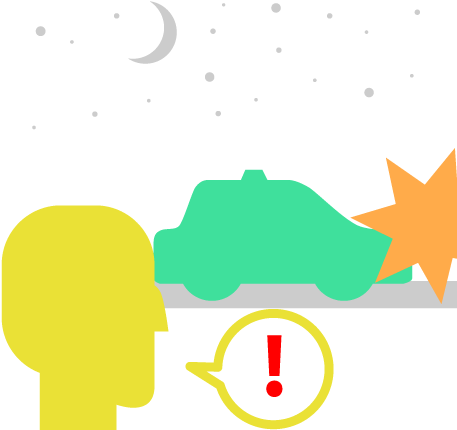
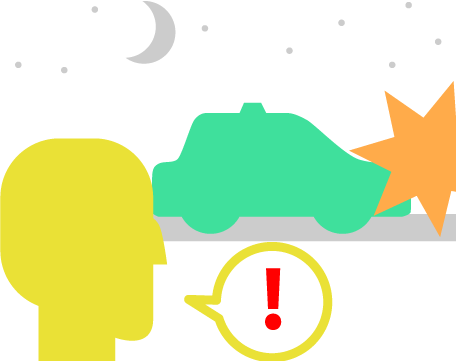
* slide1 illustration smaller and aligned to top * "welcome to" in intro is a bit larger

diff --git a/css/style.css b/css/style.css
@@ -1,1 +1,1 @@
-*{margin:0;padding:0;box-sizing:border-box}button{border:none;font-family:inherit}button:focus{outline:none}ul{list-style:none}body{font-family:'Istok Web', sans-serif}a{text-decoration:none}body{background:#cccccc;display:flex;height:100vh;justify-content:center;flex-direction:column;color:#113A27;transition:background-color .4s;min-height:600px;min-width:960px}body.credits{background:#113A27}body.credits main{background:transparent}.main-wrapper{display:flex;justify-content:center;flex:1}main{width:960px;height:540px;background:white;align-self:center;position:relative;transition:background-color .4s}footer{bottom:0;left:0;right:0;margin-top:auto;height:60px;background:#113A27;position:relative}footer nav{display:flex;width:560px;height:100%;justify-content:space-between;align-items:center;margin:0 auto}footer nav button{min-width:64px;height:36px;font-weight:bold;line-height:26px;background:#4AFFAD;border-radius:2px}footer nav button:hover{background:#E6FFF3}footer nav button.current{background:#E6FFF3}footer .share-buttons{position:absolute;right:12px;display:flex;bottom:0;top:0;align-items:center;justify-content:space-between;width:120px}footer .share-buttons>a{color:#4AFFAD;transition:.15s color}footer .share-buttons>a:hover{color:#E6FFF3}footer .share-buttons>a>svg{fill:currentColor;width:36px;height:36px}h1{font-size:28px;font-weight:normal;margin-bottom:14px}p{font-size:18px;margin-bottom:10px}button{color:inherit;font-size:24px;padding:5px 10px;transition:.15s}button:hover:not(:active){filter:drop-shadow(0px 3px 0px rgba(0,0,0,0.8));transform:translateY(-3px)}button.collapsed{display:none}button.wide{min-width:280px}button.cta{background:#E6FFF3;border:solid 4px #3FE09C;border-radius:6px}button.basic{background:#4AFFAD;border-radius:6px}button.basic.disabled{background:#cccccc;pointer-events:none}span.bold{font-weight:bold}span.cta{background:#E6FFF3;padding:3px}.slide{position:absolute;transition:.4s;padding:20px;display:flex;flex-direction:column;width:100%;height:100%}.slide:not(.active){opacity:0;pointer-events:none;transform:translateY(-10px)}.slide.collapsed{display:none !important}.slide#intro{align-items:center;text-align:center}.slide#intro>h1{font-size:48px;margin-bottom:24px}.slide#intro .play-time{opacity:0.5}.slide#intro>button{margin-top:auto}.slide#slide1 .top-part{display:flex;height:100%;min-height:0;padding-bottom:20px}.slide#slide1 .top-part .text-container{width:463px;position:relative;margin-right:10px}.slide#slide1 .top-part .text-container section{position:absolute;transition:.4s}.slide#slide1 .top-part .text-container section.collapsed{opacity:0;pointer-events:none}.slide#slide1 .top-part .illustration{flex-grow:1;margin-right:-20px;margin-left:10px;align-self:center}.slide#slide1 .bottom-part{margin-top:auto;display:flex;min-height:50px;align-items:center}.slide#slide1 .bottom-part button.cta{margin:0 auto}.slide#slide1 #percent-buttons{display:flex;justify-content:space-between;width:100%}.slide#slide1 #percent-buttons.collapsed{display:none}.slide#slide1 #percent-buttons button{border-radius:6px;width:76px}.slide#slide1 #percent-buttons button#percent0{background:#83FB4C}.slide#slide1 #percent-buttons button#percent10{background:#7DF45D}.slide#slide1 #percent-buttons button#percent20{background:#77EE6E}.slide#slide1 #percent-buttons button#percent30{background:#70E780}.slide#slide1 #percent-buttons button#percent40{background:#6AE18F}.slide#slide1 #percent-buttons button#percent50{background:#64DBA0}.slide#slide1 #percent-buttons button#percent60{background:#5DD5B1}.slide#slide1 #percent-buttons button#percent70{background:#57CEC3}.slide#slide1 #percent-buttons button#percent80{background:#50C8D4}.slide#slide1 #percent-buttons button#percent90{background:#4AC2E5}.slide#slide1 #percent-buttons button#percent100{background:#43BBF6}.slide#slide2{align-items:center}.slide#slide2 .centered-text{text-align:center;width:82%;margin-bottom:10px}.slide#slide2 .bottom-part{margin-top:auto;display:flex;flex-direction:column;align-items:center;transition:.4s}.slide#slide2 .bottom-part.collapsed{transform:translateY(-10px);opacity:0;pointer-events:none}.slide#slide2 .bottom-part button.cta{margin:0 auto}.slide#slide3 .cabs-slider{margin-bottom:10px}.slide#slide3 .main-explanation{flex-grow:1;padding-top:10px;display:flex;border-top:2px solid #cccccc}.slide#slide3 .main-explanation .explanation-text{flex-grow:1;width:100%;margin-right:10px}.slide#slide3 .main-explanation .explanation-text>section{display:flex;flex-direction:column;position:absolute;width:450px;height:396px;transition:.4s}.slide#slide3 .main-explanation .explanation-text>section .top-part{flex-grow:1}.slide#slide3 .main-explanation .explanation-text>section .bottom-part{display:flex;flex-direction:column;align-items:center}.slide#slide3 .main-explanation .explanation-text>section .bottom-part p{text-align:center}.slide#slide3 .main-explanation .explanation-text>section .bottom-part section{display:flex;flex-direction:column;align-items:center}.slide#slide3 .main-explanation .explanation-text>section.collapsed{opacity:0;pointer-events:none}.slide#slide3 .main-explanation .explanation-text>section section.collapsed{display:none}.slide#slide3 .main-explanation .explanation-graphic{flex-grow:1;width:100%;margin-left:10px}.slide#slide4 .top-controllers{display:flex;margin-bottom:10px}.slide#slide4 .top-controllers>section{flex-grow:1;margin:0 10px}.slide#slide4 .top-controllers>section:first-child{margin-left:0}.slide#slide4 .top-controllers>section:last-child{margin-right:0}.slide#slide4 .top-controllers .separator{display:flex}.slide#slide4 .top-controllers .separator::before{content:"";border:2px solid lightgrey;border-radius:5px}.slide#slide4 .main-explanation{display:flex;flex-direction:column;align-items:stretch;flex:1}.slide#slide4 .centered-text{text-align:center;width:86%}.slide#slide4 .top-part{display:flex;flex-direction:column;align-items:center;flex-grow:1;margin-top:30px}.slide#slide4 .bottom-part{display:flex;flex-direction:column;align-items:center}.slide#slide4 img{margin:10px 0}.slide#slide5 .top-controllers{display:flex;margin-bottom:10px}.slide#slide5 .top-controllers>section{flex-grow:1;margin:0 10px}.slide#slide5 .top-controllers>section:first-child{margin-left:0}.slide#slide5 .top-controllers>section:last-child{margin-right:0}.slide#slide5 .top-controllers .separator{display:flex}.slide#slide5 .top-controllers .separator::before{content:"";border:2px solid lightgrey;border-radius:5px}.slide#slide5 .main-explanation{flex-grow:1;padding-top:10px;display:flex;border-top:2px solid #cccccc}.slide#slide5 .main-explanation .explanation-text{flex-grow:1;margin-right:10px}.slide#slide5 .main-explanation .explanation-text>section{display:flex;flex-direction:column;position:absolute;width:520px;height:436px;transition:.4s}.slide#slide5 .main-explanation .explanation-text>section.collapsed{opacity:0;pointer-events:none}.slide#slide5 .main-explanation .explanation-graphic{margin-left:10px;display:flex;flex-direction:column;align-items:center;justify-content:center}.slide#slide5 .main-explanation .top-part{display:flex;flex-direction:column;align-items:center;flex-grow:1}.slide#slide5 .main-explanation .top-part p{width:100%}.slide#slide5 .main-explanation .bottom-part{display:flex;flex-direction:column;align-items:center}.slide#slide5 .main-explanation .centered-text{text-align:center}.slide#slide5 .wintnessed-cabs-example{display:flex;align-items:center}.slide#slide5 .wintnessed-cabs-example>svg{width:72.887px;height:81.829px;transform:scale(0.8);margin:0 10px}.slide#slide5 .wintnessed-cabs-example>svg:first-child{margin-left:0}.slide#slide5 .wintnessed-cabs-example>svg:last-child{margin-right:0}.slide#slide5 .witness-cabs{background-image:url("../images/witnessCabsBase.png");width:380px;height:380px}.slide#slide5 .witness-cabs ul.witnessed-cabs{position:relative}.slide#slide5 .witness-cabs ul.witnessed-cabs>li{position:absolute;width:0;height:0}.slide#slide5 .witness-cabs ul.witnessed-cabs>li>svg{position:absolute;transform:translate(-50%, -50%);width:72.887px;height:81.829px;transition:opacity 0.2s}.slide#slide5 .witness-cabs ul.witnessed-cabs>li.blue_seenblue>svg.blue_seenblue{z-index:2;opacity:1}.slide#slide5 .witness-cabs ul.witnessed-cabs>li.blue_seenblue>svg:not(.blue_seenblue){opacity:0}.slide#slide5 .witness-cabs ul.witnessed-cabs>li.blue_seengreen>svg.blue_seengreen{z-index:2;opacity:1}.slide#slide5 .witness-cabs ul.witnessed-cabs>li.blue_seengreen>svg:not(.blue_seengreen){opacity:0}.slide#slide5 .witness-cabs ul.witnessed-cabs>li.green_seengreen>svg.green_seengreen{z-index:2;opacity:1}.slide#slide5 .witness-cabs ul.witnessed-cabs>li.green_seengreen>svg:not(.green_seengreen){opacity:0}.slide#slide5 .witness-cabs ul.witnessed-cabs>li.green_seenblue>svg.green_seenblue{z-index:2;opacity:1}.slide#slide5 .witness-cabs ul.witnessed-cabs>li.green_seenblue>svg:not(.green_seenblue){opacity:0}.slide#slide6 .top-controllers{display:flex;margin-bottom:10px}.slide#slide6 .top-controllers>section{flex-grow:1;margin:0 10px}.slide#slide6 .top-controllers>section:first-child{margin-left:0}.slide#slide6 .top-controllers>section:last-child{margin-right:0}.slide#slide6 .top-controllers .separator{display:flex}.slide#slide6 .top-controllers .separator::before{content:"";border:2px solid lightgrey;border-radius:5px}.slide#slide6 .main-explanation{flex-grow:1;padding-top:10px;display:flex;border-top:2px solid #cccccc}.slide#slide6 .main-explanation .explanation-text{flex-grow:1;width:100%;margin-right:10px;display:flex;flex-direction:column}.slide#slide6 .main-explanation .explanation-text>section{display:flex;flex-direction:column;position:absolute;width:450px;height:396px;transition:.4s}.slide#slide6 .main-explanation .explanation-text>section .top-part{flex-grow:1}.slide#slide6 .main-explanation .explanation-text>section .bottom-part{display:flex;flex-direction:column;align-items:center}.slide#slide6 .main-explanation .explanation-text>section .bottom-part p{text-align:center}.slide#slide6 .main-explanation .explanation-text>section .bottom-part section{display:flex;flex-direction:column;align-items:center}.slide#slide6 .main-explanation .explanation-text>section.collapsed{opacity:0;pointer-events:none}.slide#slide6 .main-explanation .explanation-text>section section.collapsed{display:none}.slide#slide6 .main-explanation .explanation-text .top-part{flex-grow:1}.slide#slide6 .main-explanation .explanation-text .bottom-part{display:flex;flex-direction:column;align-items:center}.slide#slide6 .main-explanation .explanation-graphic{flex-grow:1;width:100%;margin-left:10px}.slide#credits{color:white;align-items:center;text-align:center}.slide#credits>header{position:relative}.slide#credits>header .created-by{font-size:26px;margin-bottom:0}.slide#credits>header>h1{font-size:48px;color:#4AFFAD}.slide#credits>header .for-eej{font-size:20px}.slide#credits>header .not-blue{position:absolute;top:80px;right:-20px;opacity:1;font-size:12px}.slide#credits .bottom-part{text-align:left;margin-top:auto;background:rgba(255,255,255,0.05);padding:20px}.slide#credits p{margin-bottom:15px}.slide#credits p:last-child{margin-bottom:0}.slide#credits a{color:#4AFFAD;text-decoration:underline;transition:.15s color}.slide#credits a:hover{color:#E6FFF3}.side-by-side-buttons{display:flex;justify-content:space-between}.report-box{background:#cccccc;padding:10px;margin-bottom:20px}.report-box header{text-decoration:underline}.cabs-slider{width:100%;position:relative;height:84px;display:flex;flex-direction:column}.cabs-slider .cabs-slider-slider{position:absolute;padding:2.5%;margin:-2.5%}.cabs-slider .cabs-slider-slider>svg{width:22.584px;height:83.922px;transform-origin:top center;fill:#3FE09C;transition:fill .15s}.cabs-slider .cabs-slider-slider>svg>use{pointer-events:none}@keyframes ftue-hop{60%{transform:scaleY(1) translateY(0);animation-timing-function:ease-in-out}70%{transform:scaleY(0.8);animation-timing-function:ease-out}80%{transform:scaleY(1.1) translateY(-20px);animation-timing-function:ease-in}90%{transform:scaleY(0.85) translateY(0);animation-timing-function:ease-out}100%{transform:scaleY(1) translateY(0);animation-timing-function:ease-in-out}}.cabs-slider .cabs-slider-slider.ftue-hop>svg{animation:ftue-hop 6s 6s infinite;transform-origin:bottom center}.cabs-slider .cabs-slider-slider:hover>svg{fill:#91edc7}.cabs-slider .cabs-slider-slider.disabled{pointer-events:none}.cabs-slider .cabs-slider-slider.disabled>svg{fill:#cccccc}.cabs-slider ul.cabs-slider-cabs{display:flex;justify-content:space-evenly;margin-top:auto;margin-bottom:10px}.cabs-slider ul.cabs-slider-cabs>li{width:72.887px;height:36.896px}.cabs-slider ul.cabs-slider-cabs>li>svg{width:72.887px;height:36.896px;transition:fill .4s;fill:#83FB4C}.cabs-slider ul.cabs-slider-cabs>li>svg.blue{fill:#43BBF6}.cabs-slider.half-size{height:42px}.cabs-slider.half-size .cabs-slider-slider>svg{width:11.292px;height:41.961px}.cabs-slider.half-size ul.cabs-slider-cabs{margin-bottom:5px}.cabs-slider.half-size ul.cabs-slider-cabs>li{width:36.4435px;height:18.448px}.cabs-slider.half-size ul.cabs-slider-cabs>li>svg{width:36.4435px;height:18.448px}.witness-slider{width:100%;position:relative;height:84px;display:flex;flex-direction:column}.witness-slider .witness-slider-slider{position:absolute;padding:2.5%;margin:-2.5%}.witness-slider .witness-slider-slider>svg{width:22.584px;height:83.922px;transform-origin:top center;fill:#3FE09C;transition:fill .15s}.witness-slider .witness-slider-slider>svg>use{pointer-events:none}.witness-slider .witness-slider-slider:hover>svg{fill:#91edc7}.witness-slider .witness-slider-slider.disabled{pointer-events:none}.witness-slider .witness-slider-slider.disabled>svg{fill:#cccccc}.witness-slider ul.witness-slider-heads{display:flex;justify-content:space-evenly;margin-top:auto;margin-bottom:10px}.witness-slider ul.witness-slider-heads>li{width:40.635px;height:60.075px;position:relative}.witness-slider ul.witness-slider-heads>li>svg{position:absolute;width:40.635px;height:60.075px;transition:opacity .4s}.witness-slider ul.witness-slider-heads>li.right>svg.right{opacity:1}.witness-slider ul.witness-slider-heads>li.right>svg:not(.right){opacity:0}.witness-slider ul.witness-slider-heads>li:not(.right)>svg.right{opacity:0}.witness-slider ul.witness-slider-heads>li:not(.right)>svg:not(.right){opacity:1}.witness-slider.half-size{height:42px}.witness-slider.half-size .witness-slider-slider>svg{width:11.292px;height:41.961px}.witness-slider.half-size ul.witness-slider-heads{margin-bottom:1px}.witness-slider.half-size ul.witness-slider-heads>li{width:20.3175px;height:30.0375px}.witness-slider.half-size ul.witness-slider-heads>li>svg{width:20.3175px;height:30.0375px}.explanation-graphic .taxidentville-graphics-container{position:relative}.explanation-graphic .taxidentville-graphics-container svg{position:absolute}.explanation-graphic .taxidentville-graphics-container svg.accident{width:60px;height:60px}.explanation-graphic .taxidentville-graphics-container svg.ville-cab{width:60px;height:30.516px;fill:#83FB4C;transition:fill .4s}.explanation-graphic .taxidentville-graphics-container svg.ville-cab.blue{fill:#43BBF6}
+*{margin:0;padding:0;box-sizing:border-box}button{border:none;font-family:inherit}button:focus{outline:none}ul{list-style:none}body{font-family:'Istok Web', sans-serif}a{text-decoration:none}body{background:#cccccc;display:flex;height:100vh;justify-content:center;flex-direction:column;color:#113A27;transition:background-color .4s;min-height:600px;min-width:960px}body.credits{background:#113A27}body.credits main{background:transparent}.main-wrapper{display:flex;justify-content:center;flex:1}main{width:960px;height:540px;background:white;align-self:center;position:relative;transition:background-color .4s}footer{bottom:0;left:0;right:0;margin-top:auto;height:60px;background:#113A27;position:relative}footer nav{display:flex;width:560px;height:100%;justify-content:space-between;align-items:center;margin:0 auto}footer nav button{min-width:64px;height:36px;font-weight:bold;line-height:26px;background:#4AFFAD;border-radius:2px}footer nav button:hover{background:#E6FFF3}footer nav button.current{background:#E6FFF3}footer .share-buttons{position:absolute;right:12px;display:flex;bottom:0;top:0;align-items:center;justify-content:space-between;width:120px}footer .share-buttons>a{color:#4AFFAD;transition:.15s color}footer .share-buttons>a:hover{color:#E6FFF3}footer .share-buttons>a>svg{fill:currentColor;width:36px;height:36px}h1{font-size:28px;font-weight:normal;margin-bottom:14px}p{font-size:18px;margin-bottom:10px}button{color:inherit;font-size:24px;padding:5px 10px;transition:.15s}button:hover:not(:active){filter:drop-shadow(0px 3px 0px rgba(0,0,0,0.8));transform:translateY(-3px)}button.collapsed{display:none}button.wide{min-width:280px}button.cta{background:#E6FFF3;border:solid 4px #3FE09C;border-radius:6px}button.basic{background:#4AFFAD;border-radius:6px}button.basic.disabled{background:#cccccc;pointer-events:none}span.bold{font-weight:bold}span.cta{background:#E6FFF3;padding:3px}.slide{position:absolute;transition:.4s;padding:20px;display:flex;flex-direction:column;width:100%;height:100%}.slide:not(.active){opacity:0;pointer-events:none;transform:translateY(-10px)}.slide.collapsed{display:none !important}.slide#intro{align-items:center;text-align:center}.slide#intro>p:first-of-type{font-size:24px}.slide#intro>h1{font-size:48px;margin-bottom:24px}.slide#intro .play-time{opacity:0.5}.slide#intro>button{margin-top:auto}.slide#slide1 .top-part{display:flex;height:100%;min-height:0;padding-bottom:20px}.slide#slide1 .top-part .text-container{width:463px;position:relative;margin-right:10px}.slide#slide1 .top-part .text-container section{position:absolute;transition:.4s}.slide#slide1 .top-part .text-container section.collapsed{opacity:0;pointer-events:none}.slide#slide1 .top-part .illustration{flex-grow:1;margin-right:-20px;margin-left:10px}.slide#slide1 .bottom-part{margin-top:auto;display:flex;min-height:50px;align-items:center}.slide#slide1 .bottom-part button.cta{margin:0 auto}.slide#slide1 #percent-buttons{display:flex;justify-content:space-between;width:100%}.slide#slide1 #percent-buttons.collapsed{display:none}.slide#slide1 #percent-buttons button{border-radius:6px;width:76px}.slide#slide1 #percent-buttons button#percent0{background:#83FB4C}.slide#slide1 #percent-buttons button#percent10{background:#7DF45D}.slide#slide1 #percent-buttons button#percent20{background:#77EE6E}.slide#slide1 #percent-buttons button#percent30{background:#70E780}.slide#slide1 #percent-buttons button#percent40{background:#6AE18F}.slide#slide1 #percent-buttons button#percent50{background:#64DBA0}.slide#slide1 #percent-buttons button#percent60{background:#5DD5B1}.slide#slide1 #percent-buttons button#percent70{background:#57CEC3}.slide#slide1 #percent-buttons button#percent80{background:#50C8D4}.slide#slide1 #percent-buttons button#percent90{background:#4AC2E5}.slide#slide1 #percent-buttons button#percent100{background:#43BBF6}.slide#slide2{align-items:center}.slide#slide2 .centered-text{text-align:center;width:82%;margin-bottom:10px}.slide#slide2 .bottom-part{margin-top:auto;display:flex;flex-direction:column;align-items:center;transition:.4s}.slide#slide2 .bottom-part.collapsed{transform:translateY(-10px);opacity:0;pointer-events:none}.slide#slide2 .bottom-part button.cta{margin:0 auto}.slide#slide3 .cabs-slider{margin-bottom:10px}.slide#slide3 .main-explanation{flex-grow:1;padding-top:10px;display:flex;border-top:2px solid #cccccc}.slide#slide3 .main-explanation .explanation-text{flex-grow:1;width:100%;margin-right:10px}.slide#slide3 .main-explanation .explanation-text>section{display:flex;flex-direction:column;position:absolute;width:450px;height:396px;transition:.4s}.slide#slide3 .main-explanation .explanation-text>section .top-part{flex-grow:1}.slide#slide3 .main-explanation .explanation-text>section .bottom-part{display:flex;flex-direction:column;align-items:center}.slide#slide3 .main-explanation .explanation-text>section .bottom-part p{text-align:center}.slide#slide3 .main-explanation .explanation-text>section .bottom-part section{display:flex;flex-direction:column;align-items:center}.slide#slide3 .main-explanation .explanation-text>section.collapsed{opacity:0;pointer-events:none}.slide#slide3 .main-explanation .explanation-text>section section.collapsed{display:none}.slide#slide3 .main-explanation .explanation-graphic{flex-grow:1;width:100%;margin-left:10px}.slide#slide4 .top-controllers{display:flex;margin-bottom:10px}.slide#slide4 .top-controllers>section{flex-grow:1;margin:0 10px}.slide#slide4 .top-controllers>section:first-child{margin-left:0}.slide#slide4 .top-controllers>section:last-child{margin-right:0}.slide#slide4 .top-controllers .separator{display:flex}.slide#slide4 .top-controllers .separator::before{content:"";border:2px solid lightgrey;border-radius:5px}.slide#slide4 .main-explanation{display:flex;flex-direction:column;align-items:stretch;flex:1}.slide#slide4 .centered-text{text-align:center;width:86%}.slide#slide4 .top-part{display:flex;flex-direction:column;align-items:center;flex-grow:1;margin-top:30px}.slide#slide4 .bottom-part{display:flex;flex-direction:column;align-items:center}.slide#slide4 img{margin:10px 0}.slide#slide5 .top-controllers{display:flex;margin-bottom:10px}.slide#slide5 .top-controllers>section{flex-grow:1;margin:0 10px}.slide#slide5 .top-controllers>section:first-child{margin-left:0}.slide#slide5 .top-controllers>section:last-child{margin-right:0}.slide#slide5 .top-controllers .separator{display:flex}.slide#slide5 .top-controllers .separator::before{content:"";border:2px solid lightgrey;border-radius:5px}.slide#slide5 .main-explanation{flex-grow:1;padding-top:10px;display:flex;border-top:2px solid #cccccc}.slide#slide5 .main-explanation .explanation-text{flex-grow:1;margin-right:10px}.slide#slide5 .main-explanation .explanation-text>section{display:flex;flex-direction:column;position:absolute;width:520px;height:436px;transition:.4s}.slide#slide5 .main-explanation .explanation-text>section.collapsed{opacity:0;pointer-events:none}.slide#slide5 .main-explanation .explanation-graphic{margin-left:10px;display:flex;flex-direction:column;align-items:center;justify-content:center}.slide#slide5 .main-explanation .top-part{display:flex;flex-direction:column;align-items:center;flex-grow:1}.slide#slide5 .main-explanation .top-part p{width:100%}.slide#slide5 .main-explanation .bottom-part{display:flex;flex-direction:column;align-items:center}.slide#slide5 .main-explanation .centered-text{text-align:center}.slide#slide5 .wintnessed-cabs-example{display:flex;align-items:center}.slide#slide5 .wintnessed-cabs-example>svg{width:72.887px;height:81.829px;transform:scale(0.8);margin:0 10px}.slide#slide5 .wintnessed-cabs-example>svg:first-child{margin-left:0}.slide#slide5 .wintnessed-cabs-example>svg:last-child{margin-right:0}.slide#slide5 .witness-cabs{background-image:url("../images/witnessCabsBase.png");width:380px;height:380px}.slide#slide5 .witness-cabs ul.witnessed-cabs{position:relative}.slide#slide5 .witness-cabs ul.witnessed-cabs>li{position:absolute;width:0;height:0}.slide#slide5 .witness-cabs ul.witnessed-cabs>li>svg{position:absolute;transform:translate(-50%, -50%);width:72.887px;height:81.829px;transition:opacity 0.2s}.slide#slide5 .witness-cabs ul.witnessed-cabs>li.blue_seenblue>svg.blue_seenblue{z-index:2;opacity:1}.slide#slide5 .witness-cabs ul.witnessed-cabs>li.blue_seenblue>svg:not(.blue_seenblue){opacity:0}.slide#slide5 .witness-cabs ul.witnessed-cabs>li.blue_seengreen>svg.blue_seengreen{z-index:2;opacity:1}.slide#slide5 .witness-cabs ul.witnessed-cabs>li.blue_seengreen>svg:not(.blue_seengreen){opacity:0}.slide#slide5 .witness-cabs ul.witnessed-cabs>li.green_seengreen>svg.green_seengreen{z-index:2;opacity:1}.slide#slide5 .witness-cabs ul.witnessed-cabs>li.green_seengreen>svg:not(.green_seengreen){opacity:0}.slide#slide5 .witness-cabs ul.witnessed-cabs>li.green_seenblue>svg.green_seenblue{z-index:2;opacity:1}.slide#slide5 .witness-cabs ul.witnessed-cabs>li.green_seenblue>svg:not(.green_seenblue){opacity:0}.slide#slide6 .top-controllers{display:flex;margin-bottom:10px}.slide#slide6 .top-controllers>section{flex-grow:1;margin:0 10px}.slide#slide6 .top-controllers>section:first-child{margin-left:0}.slide#slide6 .top-controllers>section:last-child{margin-right:0}.slide#slide6 .top-controllers .separator{display:flex}.slide#slide6 .top-controllers .separator::before{content:"";border:2px solid lightgrey;border-radius:5px}.slide#slide6 .main-explanation{flex-grow:1;padding-top:10px;display:flex;border-top:2px solid #cccccc}.slide#slide6 .main-explanation .explanation-text{flex-grow:1;width:100%;margin-right:10px;display:flex;flex-direction:column}.slide#slide6 .main-explanation .explanation-text>section{display:flex;flex-direction:column;position:absolute;width:450px;height:396px;transition:.4s}.slide#slide6 .main-explanation .explanation-text>section .top-part{flex-grow:1}.slide#slide6 .main-explanation .explanation-text>section .bottom-part{display:flex;flex-direction:column;align-items:center}.slide#slide6 .main-explanation .explanation-text>section .bottom-part p{text-align:center}.slide#slide6 .main-explanation .explanation-text>section .bottom-part section{display:flex;flex-direction:column;align-items:center}.slide#slide6 .main-explanation .explanation-text>section.collapsed{opacity:0;pointer-events:none}.slide#slide6 .main-explanation .explanation-text>section section.collapsed{display:none}.slide#slide6 .main-explanation .explanation-text .top-part{flex-grow:1}.slide#slide6 .main-explanation .explanation-text .bottom-part{display:flex;flex-direction:column;align-items:center}.slide#slide6 .main-explanation .explanation-graphic{flex-grow:1;width:100%;margin-left:10px}.slide#credits{color:white;align-items:center;text-align:center}.slide#credits>header{position:relative}.slide#credits>header .created-by{font-size:26px;margin-bottom:0}.slide#credits>header>h1{font-size:48px;color:#4AFFAD}.slide#credits>header .for-eej{font-size:20px}.slide#credits>header .not-blue{position:absolute;top:80px;right:-20px;opacity:1;font-size:12px}.slide#credits .bottom-part{text-align:left;margin-top:auto;background:rgba(255,255,255,0.05);padding:20px}.slide#credits p{margin-bottom:15px}.slide#credits p:last-child{margin-bottom:0}.slide#credits a{color:#4AFFAD;text-decoration:underline;transition:.15s color}.slide#credits a:hover{color:#E6FFF3}.side-by-side-buttons{display:flex;justify-content:space-between}.report-box{background:#cccccc;padding:10px;margin-bottom:20px}.report-box header{text-decoration:underline}.cabs-slider{width:100%;position:relative;height:84px;display:flex;flex-direction:column}.cabs-slider .cabs-slider-slider{position:absolute;padding:2.5%;margin:-2.5%}.cabs-slider .cabs-slider-slider>svg{width:22.584px;height:83.922px;transform-origin:top center;fill:#3FE09C;transition:fill .15s}.cabs-slider .cabs-slider-slider>svg>use{pointer-events:none}@keyframes ftue-hop{60%{transform:scaleY(1) translateY(0);animation-timing-function:ease-in-out}70%{transform:scaleY(0.8);animation-timing-function:ease-out}80%{transform:scaleY(1.1) translateY(-20px);animation-timing-function:ease-in}90%{transform:scaleY(0.85) translateY(0);animation-timing-function:ease-out}100%{transform:scaleY(1) translateY(0);animation-timing-function:ease-in-out}}.cabs-slider .cabs-slider-slider.ftue-hop>svg{animation:ftue-hop 6s 6s infinite;transform-origin:bottom center}.cabs-slider .cabs-slider-slider:hover>svg{fill:#91edc7}.cabs-slider .cabs-slider-slider.disabled{pointer-events:none}.cabs-slider .cabs-slider-slider.disabled>svg{fill:#cccccc}.cabs-slider ul.cabs-slider-cabs{display:flex;justify-content:space-evenly;margin-top:auto;margin-bottom:10px}.cabs-slider ul.cabs-slider-cabs>li{width:72.887px;height:36.896px}.cabs-slider ul.cabs-slider-cabs>li>svg{width:72.887px;height:36.896px;transition:fill .4s;fill:#83FB4C}.cabs-slider ul.cabs-slider-cabs>li>svg.blue{fill:#43BBF6}.cabs-slider.half-size{height:42px}.cabs-slider.half-size .cabs-slider-slider>svg{width:11.292px;height:41.961px}.cabs-slider.half-size ul.cabs-slider-cabs{margin-bottom:5px}.cabs-slider.half-size ul.cabs-slider-cabs>li{width:36.4435px;height:18.448px}.cabs-slider.half-size ul.cabs-slider-cabs>li>svg{width:36.4435px;height:18.448px}.witness-slider{width:100%;position:relative;height:84px;display:flex;flex-direction:column}.witness-slider .witness-slider-slider{position:absolute;padding:2.5%;margin:-2.5%}.witness-slider .witness-slider-slider>svg{width:22.584px;height:83.922px;transform-origin:top center;fill:#3FE09C;transition:fill .15s}.witness-slider .witness-slider-slider>svg>use{pointer-events:none}.witness-slider .witness-slider-slider:hover>svg{fill:#91edc7}.witness-slider .witness-slider-slider.disabled{pointer-events:none}.witness-slider .witness-slider-slider.disabled>svg{fill:#cccccc}.witness-slider ul.witness-slider-heads{display:flex;justify-content:space-evenly;margin-top:auto;margin-bottom:10px}.witness-slider ul.witness-slider-heads>li{width:40.635px;height:60.075px;position:relative}.witness-slider ul.witness-slider-heads>li>svg{position:absolute;width:40.635px;height:60.075px;transition:opacity .4s}.witness-slider ul.witness-slider-heads>li.right>svg.right{opacity:1}.witness-slider ul.witness-slider-heads>li.right>svg:not(.right){opacity:0}.witness-slider ul.witness-slider-heads>li:not(.right)>svg.right{opacity:0}.witness-slider ul.witness-slider-heads>li:not(.right)>svg:not(.right){opacity:1}.witness-slider.half-size{height:42px}.witness-slider.half-size .witness-slider-slider>svg{width:11.292px;height:41.961px}.witness-slider.half-size ul.witness-slider-heads{margin-bottom:1px}.witness-slider.half-size ul.witness-slider-heads>li{width:20.3175px;height:30.0375px}.witness-slider.half-size ul.witness-slider-heads>li>svg{width:20.3175px;height:30.0375px}.explanation-graphic .taxidentville-graphics-container{position:relative}.explanation-graphic .taxidentville-graphics-container svg{position:absolute}.explanation-graphic .taxidentville-graphics-container svg.accident{width:60px;height:60px}.explanation-graphic .taxidentville-graphics-container svg.ville-cab{width:60px;height:30.516px;fill:#83FB4C;transition:fill .4s}.explanation-graphic .taxidentville-graphics-container svg.ville-cab.blue{fill:#43BBF6}

diff --git a/scss/style.scss b/scss/style.scss
@@ -199,6 +199,10 @@ span.cta {
         align-items: center;
         text-align: center;
 
+        > p:first-of-type {
+            font-size: 24px;
+        }
+
         > h1 {
             font-size: 48px;
             margin-bottom: 24px;
@@ -240,7 +244,6 @@ span.cta {
                 flex-grow: 1;
                 margin-right: -20px;
                 margin-left: 10px;
-                align-self: center;
             }
         }
 
